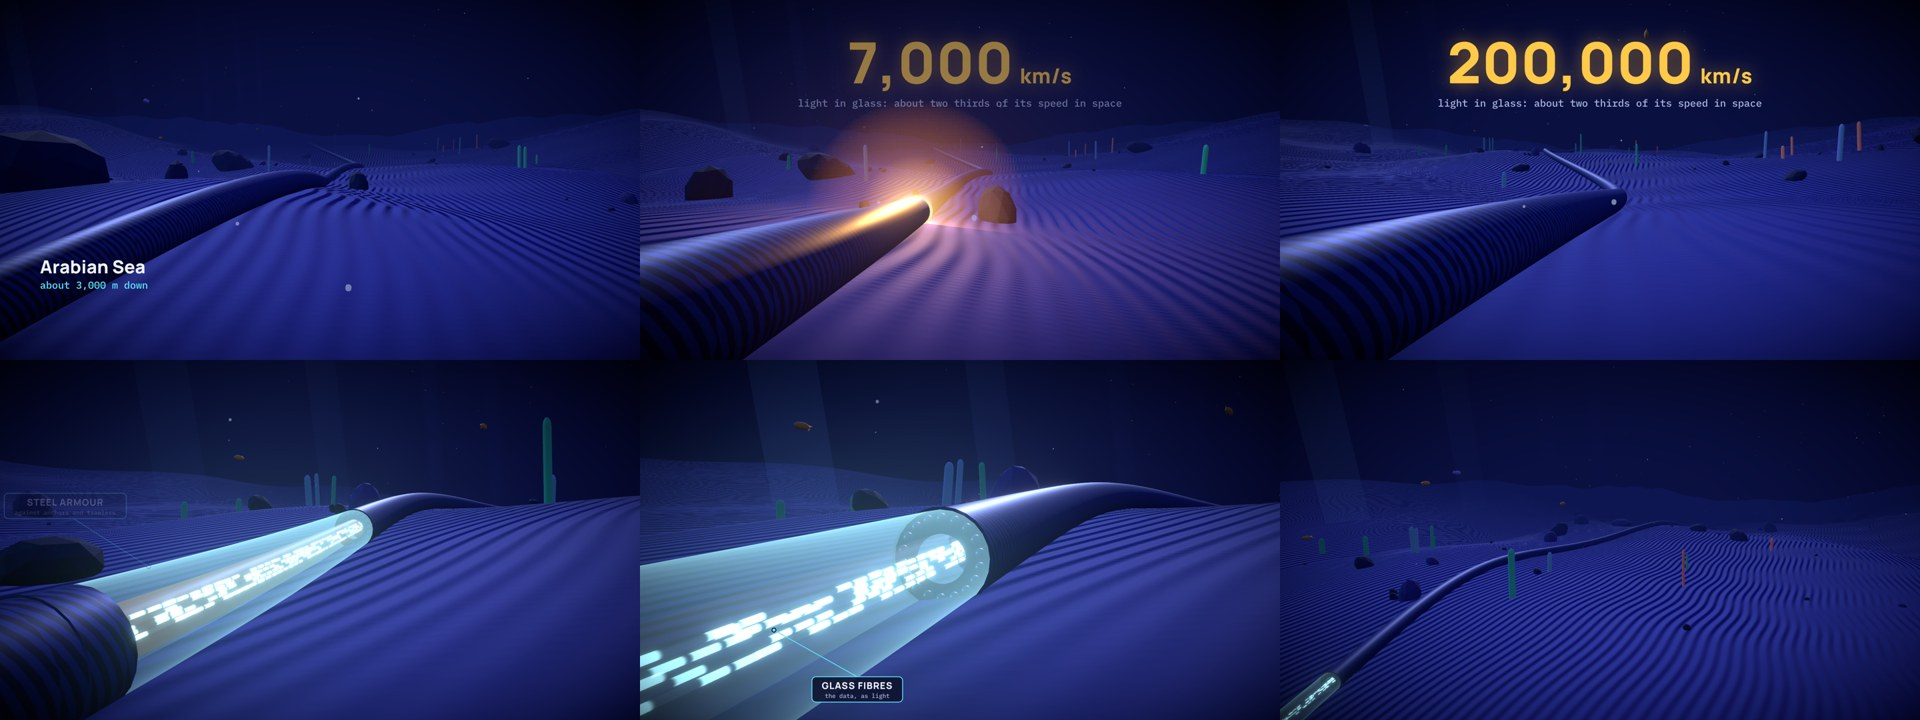
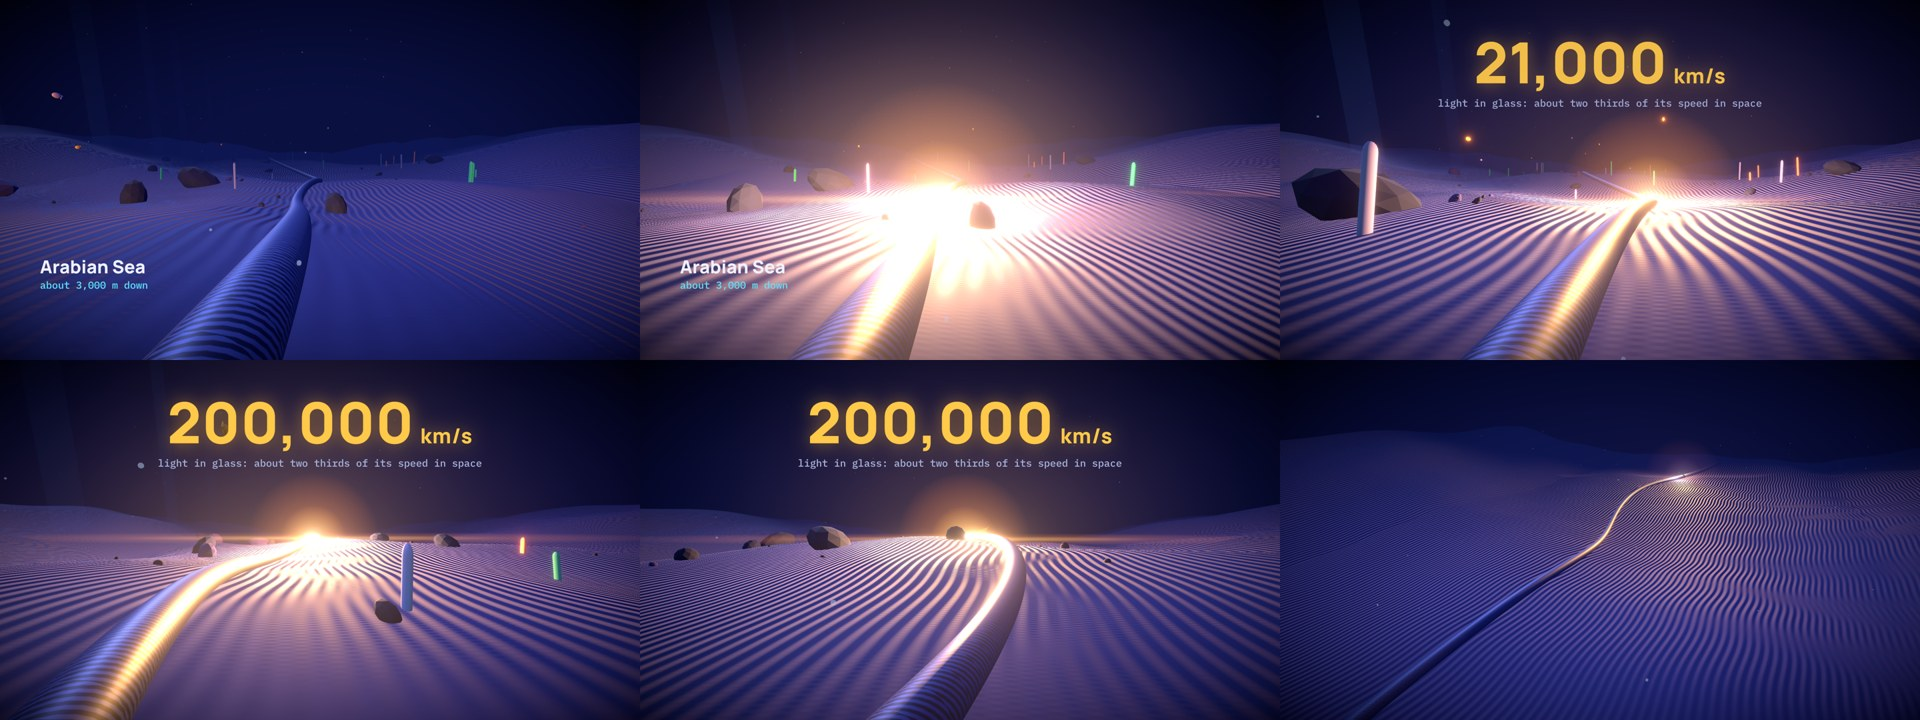
V4 seabed: light travels along the outside of the cable, camera chases it
Claude-Session: https://claude.ai/code/session_01GXcKc3rwQcfrK3291f8HAB

diff --git a/internet/v3/src/v4/Seabed.tsx b/internet/v3/src/v4/Seabed.tsx
@@ -12,6 +12,7 @@ import { glassMat, pulseMat, stripeTex } from './Fiber';
    then a see-through section showing the glass fibres and the light inside. Real 3D, frame-driven. */
 const W = 1920, H = 1080;
 export const SEABED_FRAMES = 630;
+export const SEA_NAME = 'Arabian Sea', SEA_DEPTH = 'about 3,000 m down';
 const V = (x: number, y: number, z: number) => new THREE.Vector3(x, y, z);
 const seg = (t: number, a: number, b: number) => smooth((t - a) / (b - a));
 
@@ -27,13 +28,13 @@ const uOf = (x: number) => clamp01((x - X0) / (X1 - X0));      // close enough t
 /* ---------- camera ---------- */
 type K = { t: number; x: number; side: number; up: number; ahead: number; lx?: number; fov: number };
 const KEYS: K[] = [
-  { t: 0, x: -30, side: 16, up: 15, ahead: 46, fov: 40 },        // wide: the seabed and the cable crossing it
-  { t: 4.5, x: 0, side: 5, up: 2.2, ahead: 30, fov: 40 },
-  { t: 6.5, x: 14, side: 1.7, up: 0.75, ahead: 30, fov: 46 },     // low, right beside the cable
-  { t: 11.5, x: 74, side: 1.9, up: 0.8, ahead: 34, fov: 50 },     // tracking forward as the light overtakes
-  { t: 13.5, x: 96, side: 2.6, up: 1.0, ahead: 9, fov: 34 },      // settle on the see-through section
-  { t: 17.5, x: 103, side: 1.5, up: 0.5, ahead: 4.5, fov: 28 },   // macro on the fibres
-  { t: 21, x: 92, side: 12, up: 9, ahead: 60, fov: 42 },          // rise: the cable runs on over the next hill
+  { t: 0, x: -34, side: 18, up: 16, ahead: 50, fov: 40 },         // wide: the seabed and the cable crossing it
+  { t: 4.2, x: -4, side: 3.5, up: 3.2, ahead: 40, fov: 42 },
+  { t: 6.4, x: 8, side: 0.9, up: 1.5, ahead: 60, fov: 50 },        // low, over the cable, looking along it to the horizon
+  { t: 8.6, x: 16, side: 0.9, up: 1.5, ahead: 70, fov: 52 },       // the light passes under us and races away
+  { t: 12.5, x: 120, side: 1.3, up: 1.9, ahead: 60, fov: 58 },     // chase it along the outside of the cable
+  { t: 16.5, x: 250, side: 2.0, up: 2.3, ahead: 50, fov: 56 },
+  { t: 20.5, x: 285, side: 15, up: 14, ahead: 60, fov: 42 },       // rise: the cable and its light run on across the ocean floor
 ];
 const camAt = (t: number) => {
   let i = 0; while (i < KEYS.length - 2 && t > KEYS[i + 1].t) i++;
@@ -43,6 +44,7 @@ const camAt = (t: number) => {
   const l = cablePt(x + L('ahead')); l.y += 0.1;
   return { p, l, fov: L('fov') };
 };
+const camX = (t: number) => { let i = 0; while (i < KEYS.length - 2 && t > KEYS[i + 1].t) i++; const a = KEYS[i], b = KEYS[i + 1]; return lerp(a.x, b.x, smooth((t - a.t) / (b.t - a.t))); };
 const Cam: React.FC<{ t: number }> = ({ t }) => { const { camera } = useThree();
   useLayoutEffect(() => { const c = camAt(t), cam = camera as THREE.PerspectiveCamera; cam.position.copy(c.p); cam.fov = c.fov; cam.near = 0.05; cam.far = 600; cam.lookAt(c.l); cam.updateProjectionMatrix(); }, [t, camera]); return null; };
 
@@ -51,7 +53,7 @@ const Terrain: React.FC = () => {
   const geo = useMemo(() => { const g = new THREE.PlaneGeometry(560, 150, 280, 90); g.rotateX(-Math.PI / 2); g.translate(170, 0, 0); const p = g.attributes.position; for (let i = 0; i < p.count; i++) p.setY(i, ground(p.getX(i), p.getZ(i))); g.computeVertexNormals(); return g; }, []);
   const rip = useMemo(() => { const c = document.createElement('canvas'); c.width = c.height = 256; const g = c.getContext('2d')!; for (let y = 0; y < 256; y++) for (let x = 0; x < 256; x += 2) { const v = 0.5 + 0.5 * Math.sin((y / 256) * Math.PI * 2 * 9 + Math.sin((x / 256) * Math.PI * 2 * 2) * 1.6); const s = Math.round(v * 255); g.fillStyle = `rgb(${s},${s},${s})`; g.fillRect(x, y, 2, 1); }
     const t = new THREE.CanvasTexture(c); t.wrapS = t.wrapT = THREE.RepeatWrapping; t.repeat.set(26, 30); return t; }, []);
-  return <mesh geometry={geo}><meshStandardMaterial color="#3a3a9c" roughness={0.95} bumpMap={rip} bumpScale={5} /></mesh>;
+  return <mesh geometry={geo}><meshStandardMaterial color="#4a4696" roughness={0.9} bumpMap={rip} bumpScale={2.2} /></mesh>;
 };
 const Rocks: React.FC = () => { const geo = useMemo(() => new THREE.IcosahedronGeometry(1, 1), []);
   return <>{Array.from({ length: 150 }).map((_, i) => { const x = X0 + hash(i) * (X1 - X0) * 0.75, off = (hash(i + 31) - 0.5) * 60, z = cableZ(x) + off + Math.sign(off) * 1.6, s = 0.18 + hash(i + 7) ** 3 * 2.2;
@@ -75,8 +77,8 @@ const Cable: React.FC<{ t: number }> = ({ t }) => {
   const N = 1500;
   const armour = useMemo(() => new THREE.TubeGeometry(PATH, N, CR, 24, false), []);
   const armourB = useMemo(() => armour.clone(), [armour]);
-  const tex = useMemo(() => { const x = stripeTex('#1b2260', '#3f4cb8', 10, 0.5); x.repeat.set(900, 1); return x; }, []);
-  const open = seg(t, 12.6, 14.2);
+  const tex = useMemo(() => { const x = stripeTex('#232a70', '#6f7ce0', 10, 0.5); x.repeat.set(900, 1); return x; }, []);
+  const open = 0;
   const idx = (x: number) => Math.floor(uOf(x) * N) * 24 * 6, mid = (CUT0 + CUT1) / 2, a = lerp(mid, CUT0, open), b = lerp(mid, CUT1, open);
   armour.setDrawRange(0, idx(a)); armourB.setDrawRange(idx(b), 1e9);
   const sub = useMemo(() => new THREE.CatmullRomCurve3(Array.from({ length: 30 }).map((_, i) => cablePt(CUT0 - 1.5 + ((CUT1 - CUT0 + 3) * i) / 29))), []);
@@ -89,7 +91,10 @@ const Cable: React.FC<{ t: number }> = ({ t }) => {
   const glowTex = useMemo(() => { const c = document.createElement('canvas'); c.width = c.height = 128; const g = c.getContext('2d')!; const gr = g.createRadialGradient(64, 64, 0, 64, 64, 64); gr.addColorStop(0, 'rgba(255,240,200,1)'); gr.addColorStop(0.18, 'rgba(255,190,90,.75)'); gr.addColorStop(0.5, 'rgba(255,150,40,.2)'); gr.addColorStop(1, 'rgba(255,140,30,0)'); g.fillStyle = gr; g.fillRect(0, 0, 128, 128); const t = new THREE.CanvasTexture(c); t.colorSpace = THREE.SRGBColorSpace; return t; }, []);
   const copper = useMemo(() => { const x = stripeTex('#c98a4a', '#e2a868', 4, 0); return x; }, []);
   /* the light we follow, racing along the outside view of the cable towards the horizon */
-  const run = clamp01((t - 7.0) / 4.2), px = lerp(-10, 330, run * run * (3 - 2 * run) * 0.4 + run * 0.6), pp = cablePt(px), glowOn = seg(t, 6.8, 7.3) * (1 - seg(t, 11.0, 11.6));
+  /* starts behind the camera, passes under it, then stays ahead of it all the way while we chase */
+  const lightX = (tt: number) => camX(tt) + lerp(-34, 30, seg(tt, 6.6, 8.6)) + lerp(0, 16, seg(tt, 8.6, 12)) + lerp(0, 70, seg(tt, 16.5, 20.5));
+  const px = lightX(t), pp = cablePt(px), glowOn = seg(t, 6.4, 6.9);
+  const tan = cablePt(px + 1).sub(cablePt(px - 1)).normalize(), trailQ = new THREE.Quaternion().setFromUnitVectors(V(0, 1, 0), tan);
   return (
     <group>
       <mesh geometry={armour}><meshStandardMaterial map={tex} roughness={0.5} metalness={0.25} /></mesh>
@@ -101,9 +106,13 @@ const Cable: React.FC<{ t: number }> = ({ t }) => {
         {fibres.map((g, k) => <mesh key={k} geometry={g} material={mats[k]} renderOrder={2} />)}
       </>}
       {glowOn > 0.01 && <group position={pp}>
-        <sprite scale={[CR * 16, CR * 16, 1]}><spriteMaterial map={glowTex} transparent opacity={glowOn} depthWrite={false} blending={THREE.AdditiveBlending} /></sprite>
-        <mesh><sphereGeometry args={[CR * 1.15, 16, 12]} /><meshBasicMaterial color="#ffe6b0" transparent opacity={glowOn} /></mesh>
-        <pointLight color="#ffb454" intensity={90 * glowOn} distance={40} decay={1.6} position={[0, 1.2, 0]} />
+        <sprite scale={[CR * 44, CR * 44, 1]}><spriteMaterial map={glowTex} transparent opacity={glowOn} depthWrite={false} blending={THREE.AdditiveBlending} /></sprite>
+        <sprite scale={[CR * 260, CR * 4, 1]}><spriteMaterial map={glowTex} transparent opacity={0.75 * glowOn} depthWrite={false} blending={THREE.AdditiveBlending} /></sprite>
+        <mesh><sphereGeometry args={[CR * 1.2, 16, 12]} /><meshBasicMaterial color="#fff0c8" transparent opacity={glowOn} /></mesh>
+        {/* the glowing stretch of cable just behind the light */}
+        <group quaternion={trailQ}><mesh position={[0, -9, 0]}><cylinderGeometry args={[CR * 1.06, CR * 1.02, 18, 20, 1, true]} /><meshBasicMaterial color="#ffb347" transparent opacity={0.34 * glowOn} depthWrite={false} blending={THREE.AdditiveBlending} /></mesh></group>
+        <pointLight color="#ffb454" intensity={1700 * glowOn} distance={140} decay={1.35} position={[0, 2.4, 0]} />
+        <pointLight color="#ffd9a0" intensity={500 * glowOn} distance={40} decay={1.3} position={[-4, 1.2, 0]} />
       </group>}
     </group>
   );
@@ -120,8 +129,8 @@ const Tag: React.FC<{ t: number; at: THREE.Vector3; text: string; sub?: string; 
 
 export const Seabed: React.FC = () => {
   const f = useCurrentFrame(), t = f / FPS;
-  const place = seg(t, 1.0, 1.6) * (1 - seg(t, 6.0, 6.6));
-  const num = seg(t, 7.4, 7.9) * (1 - seg(t, 11.6, 12.2)), count = Math.round(lerp(0, 200000, seg(t, 7.4, 9.0)) / 1000) * 1000;
+  const place = seg(t, 1.0, 1.6) * (1 - seg(t, 8.6, 9.2));
+  const num = seg(t, 9.6, 10.1) * (1 - seg(t, 16.4, 17.0)), count = Math.round(lerp(0, 200000, seg(t, 9.6, 11.2)) / 1000) * 1000;
   const mid = (x: number, dy = 0) => { const p = cablePt(x); p.y += dy; return p; };
   return (
     <AbsoluteFill style={{ background: '#050720' }}>
@@ -136,12 +145,9 @@ export const Seabed: React.FC = () => {
         <EffectComposer><Bloom intensity={0.8} luminanceThreshold={0.72} luminanceSmoothing={0.2} mipmapBlur /><Vignette eskil={false} offset={0.2} darkness={0.8} /></EffectComposer>
       </ThreeCanvas>
       <AbsoluteFill><svg width={W} height={H}>
-        <g opacity={place} transform="translate(120 820)"><text fill="#eef1ff" style={{ font: `800 54px ${FONT.ui}` }}>Arabian Sea</text><text y={46} fill="#5fe3ff" style={{ font: `500 30px ${FONT.mono}` }}>about 3,000 m down</text></g>
+        <g opacity={place} transform="translate(120 820)"><text fill="#eef1ff" style={{ font: `800 54px ${FONT.ui}` }}>{SEA_NAME}</text><text y={46} fill="#5fe3ff" style={{ font: `500 30px ${FONT.mono}` }}>{SEA_DEPTH}</text></g>
         <g opacity={num} transform="translate(960 250)"><text textAnchor="middle" fill="#ffc94a" style={{ font: `800 170px ${FONT.ui}`, letterSpacing: '0.01em', filter: 'drop-shadow(0 0 26px rgba(255,180,60,.55))' }}>{count.toLocaleString('en-US')}<tspan dx={18} style={{ font: `800 62px ${FONT.ui}` }}>km/s</tspan></text>
           <text y={70} textAnchor="middle" fill="#a9b4dd" style={{ font: `500 30px ${FONT.mono}` }}>light in glass: about two thirds of its speed in space</text></g>
-        <Tag t={t} at={mid(100.2, 0.42)} text="STEEL ARMOUR" sub="against anchors and trawlers" a={14.2} b={17.2} dx={-250} dy={-190} />
-        <Tag t={t} at={mid(104, 0.2)} text="COPPER TUBE" sub="powers the repeaters" a={14.6} b={17.2} dx={60} dy={-240} col="#ffb454" />
-        <Tag t={t} at={mid(105.5, 0)} text="GLASS FIBRES" sub="the data, as light" a={15.6} b={19.4} dx={250} dy={170} />
       </svg></AbsoluteFill>
     </AbsoluteFill>
   );

diff --git a/internet/tracker.html b/internet/tracker.html
@@ -69,8 +69,8 @@ code { font: 500 13px var(--mono); color: var(--cyan); overflow-wrap: anywhere; 
     <p class="note" style="margin-top:8px">Fibre cable sequence, first preview frames.</p>
     <video src="v4-fibre-test.mp4" controls playsinline preload="metadata" style="width:100%;aspect-ratio:16/9;border-radius:12px;border:1px solid var(--line);background:#070a22;margin-top:10px"></video>
     <p class="note" style="margin-top:8px">Fibre cable sequence, half-size motion test, 26 seconds, no sound yet.</p>
-    <img src="v4-seabed-1.jpg" alt="Six preview frames of the seabed: the armoured cable crossing rippled sand, an amber light racing along it, the 200,000 km/s title, a see-through section showing glass fibres with light pulses, and the cable running on over the next hill" style="width:100%;border-radius:12px;border:1px solid var(--line);margin-top:16px">
-    <p class="note" style="margin-top:8px">Seabed cable sequence, first preview frames, built after your two reference shots.</p>
+    <img src="v4-seabed-1.jpg" alt="Six preview frames of the seabed: the armoured cable crossing rippled sand, an amber light passing under the camera, then racing along the outside of the cable and lighting the sand while the counter reaches 200,000 km/s, and the wide view of the light running on across the ocean floor" style="width:100%;border-radius:12px;border:1px solid var(--line);margin-top:16px">
+    <p class="note" style="margin-top:8px">Seabed cable sequence, second version: the light now travels along the outside of the cable. A motion test is rendering.</p>
     <div class="tablewrap" style="margin-top:14px"><table>
       <thead><tr><th>Sequence</th><th>Status</th></tr></thead>
       <tbody>
@@ -78,7 +78,7 @@ code { font: 500 13px var(--mono); color: var(--cyan); overflow-wrap: anywhere; 
         <tr><td>Video becomes packets (select, send, frames, encoded data, chunks, numbered packets, packet 04 in amber)</td><td><span class="pill wait">NOT STARTED</span></td></tr>
         <tr><td>Airport, take-off, amber flight route on the globe, arrival</td><td><span class="pill wait">NOT STARTED</span></td></tr>
         <tr><td>New London street and flat</td><td><span class="pill wait">NOT STARTED</span></td></tr>
-        <tr><td>Seabed cable tracking with the see-through section</td><td><span class="pill run">PREVIEW FRAMES</span></td></tr>
+        <tr><td>Seabed cable tracking, light racing along the outside of the cable</td><td><span class="pill run">PREVIEW FRAMES</span></td></tr>
         <tr><td>Coastal landing station, submarine cable exploded view</td><td><span class="pill wait">NOT STARTED</span></td></tr>
         <tr><td>Global cable network reveal, cable damage and rerouting</td><td><span class="pill wait">NOT STARTED</span></td></tr>
         <tr><td>Arrival in London, packet reassembly, ending</td><td><span class="pill wait">NOT STARTED</span></td></tr>
